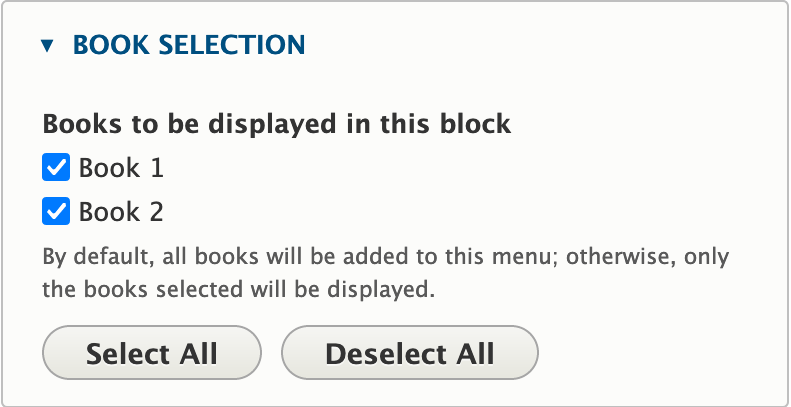
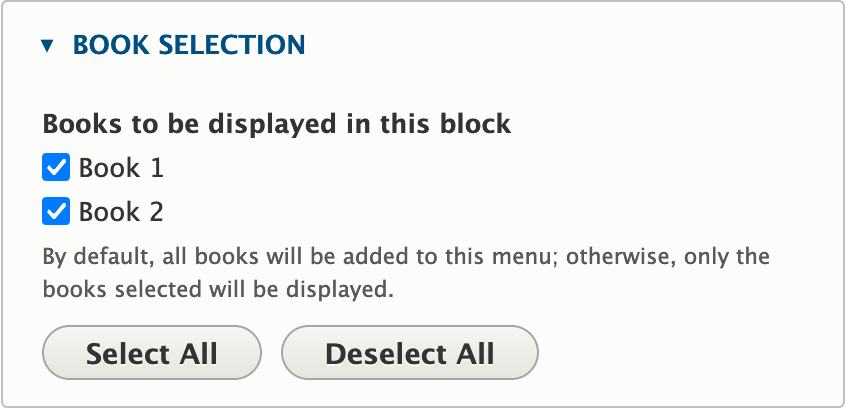
Updated docs

diff --git a/docs/README.md b/docs/README.md
@@ -4,7 +4,7 @@ Collapsing Book Navigation 9.x-1.1
 ### About this Module
 Converts the standard page-rendered **Book Navigation** block into a fully collapsible tree menu.
 
-<img src="https://raw.githubusercontent.com/rpc5102/drupal-collapsing_book_navigation/master/docs/comparison.png" width="600">
+<img src="https://raw.githubusercontent.com/rpc5102/drupal-collapsing_book_navigation/master/docs/comparison.png" width="300">
 
 ### Goals
 Provide users with a method to easily traverse large/complex book structures.
